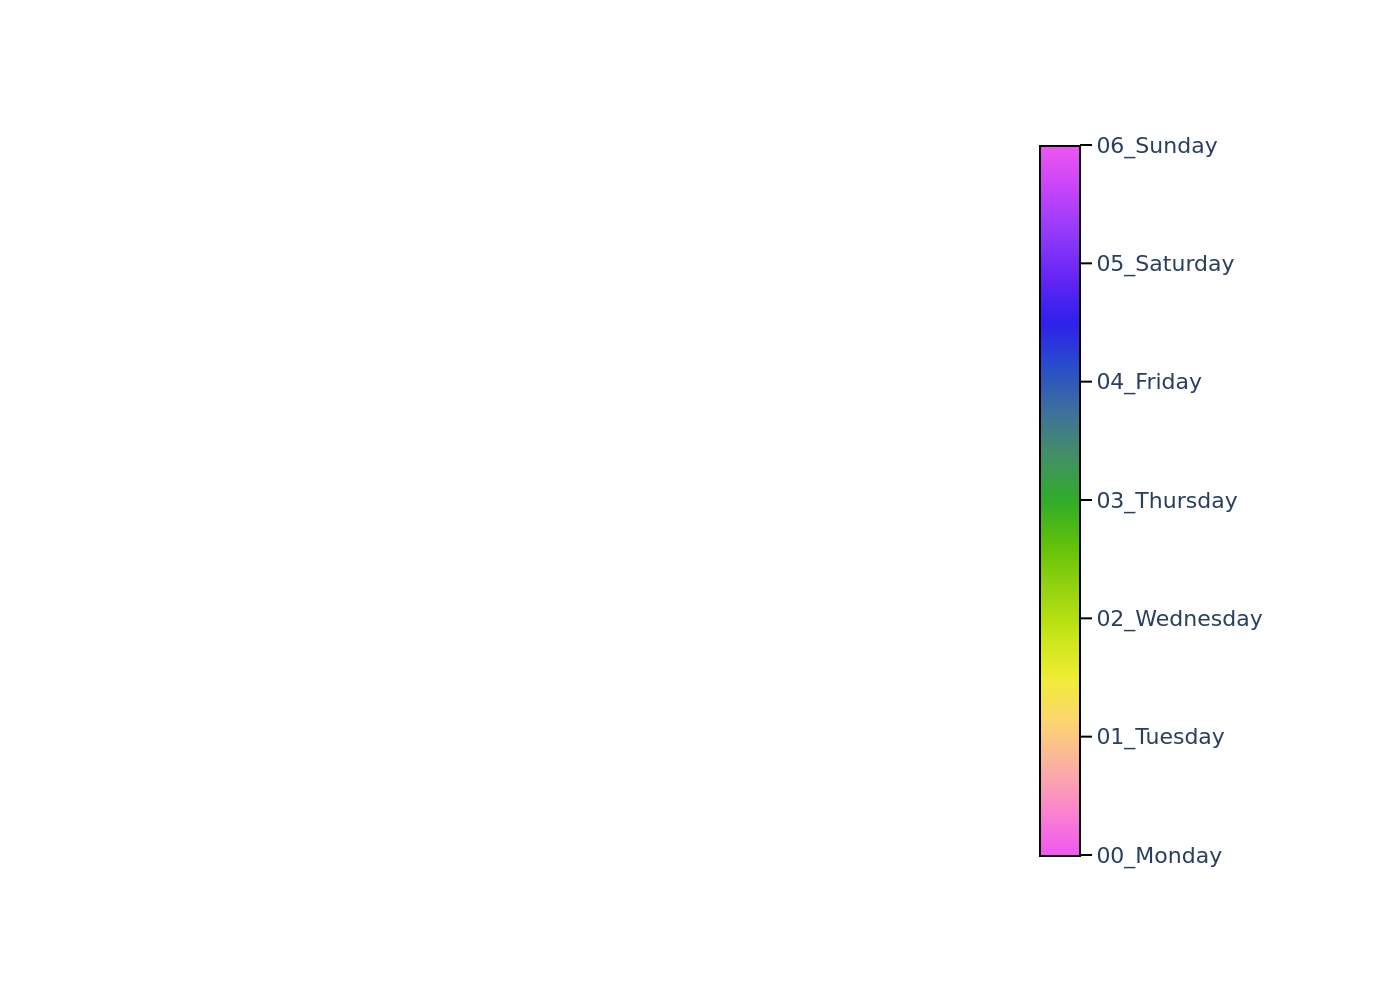
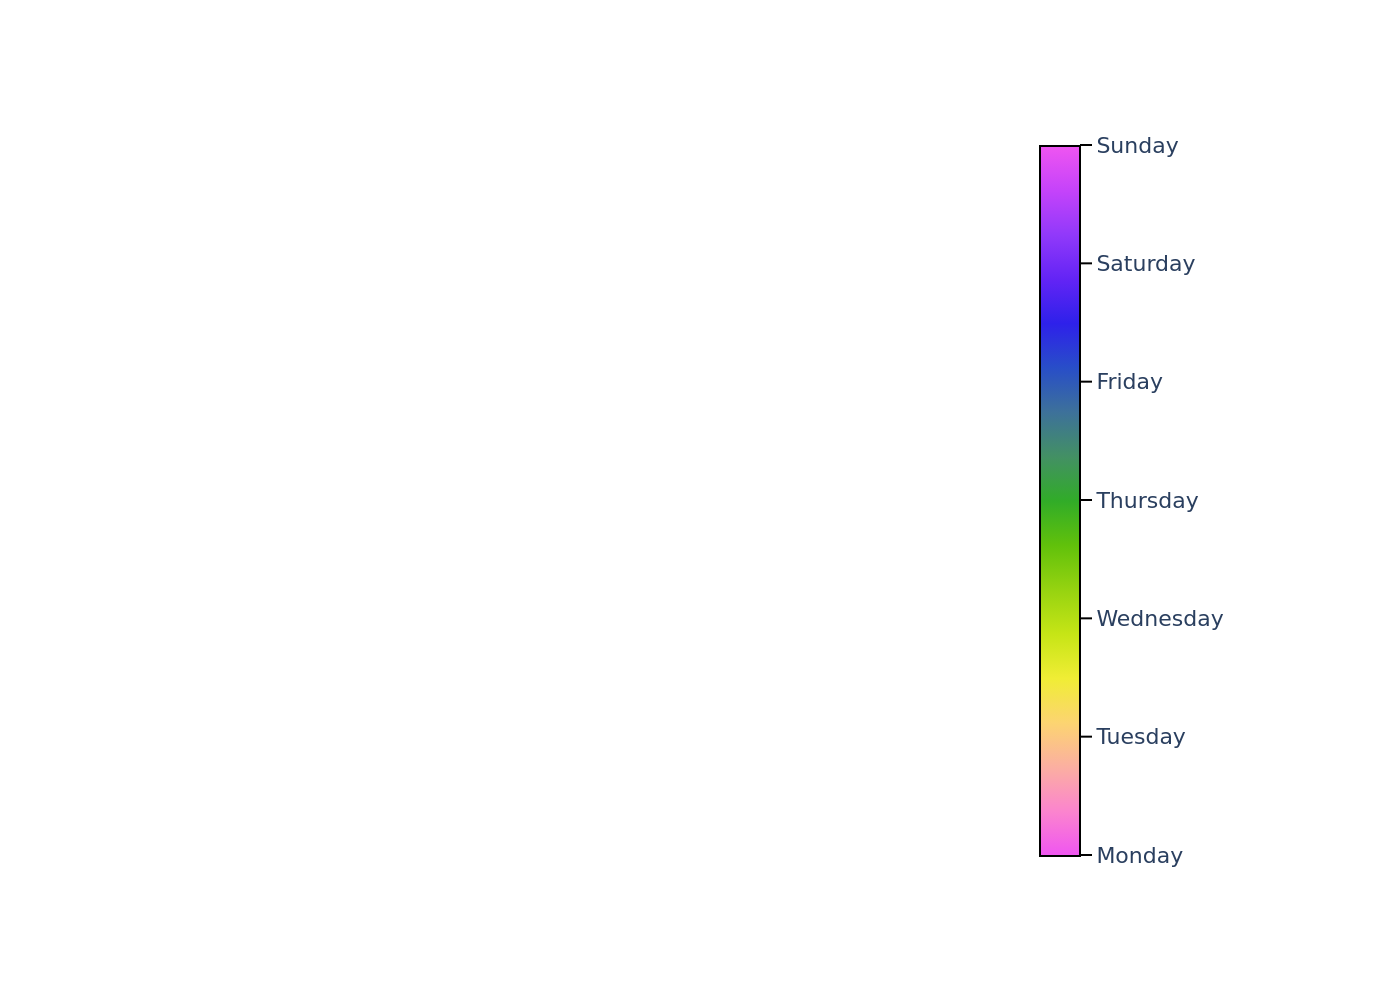
update the legends again .. .

diff --git a/src/latex/camera_ready.py b/src/latex/camera_ready.py
@@ -330,6 +330,11 @@ def build_all_config_groups(color_info: dict[str, dict]) -> list[LegendGroup]:
 
 # ── Legend rendering ───────────────────────────────────────────────────────────
 
+def _display_names(labels: list) -> dict:
+    """Strip leading ``NN_`` sort prefixes for display (e.g. ``'06_insect'`` → ``'insect'``)."""
+    return {lbl: re.sub(r"^\d+_", "", str(lbl)) for lbl in labels}
+
+
 def _render_group_legend(group: LegendGroup, output_path: Path) -> None:
     """Render a legend PNG for *group* using scatter3d's exact Plotly rendering."""
     from analysis.scatter3d import render_legend_png
@@ -343,11 +348,11 @@ def _render_group_legend(group: LegendGroup, output_path: Path) -> None:
             colorscale=group.color_map,
             labels=labels,
             output_path=output_path,
+            label_names=_display_names(labels),
         )
     elif group.color_scale:
-        # Named colorscale → continuous colorbar.
-        # Use real label values (loaded from CSV) so the axis range and auto-ticks
-        # reflect the actual data domain (e.g. −40…140 °F) instead of 0…23.
+        # Named colorscale → colorbar (continuous_color=True) or discrete legend.
+        # Use real label values loaded from CSV so axis range / colours match the data.
         if not group.labels:
             typer.echo(f"  [skip legend] no labels available for group {group.key}", err=True)
             return
@@ -355,7 +360,7 @@ def _render_group_legend(group: LegendGroup, output_path: Path) -> None:
             colorscale=group.color_scale,
             labels=group.labels,
             output_path=output_path,
-            label_names=None,  # triggers auto-tick in render_legend_png
+            label_names=_display_names(group.labels),
             continuous_color=group.continuous_color,
         )
     elif group.labels:
@@ -364,6 +369,7 @@ def _render_group_legend(group: LegendGroup, output_path: Path) -> None:
             colorscale=None,
             labels=group.labels,
             output_path=output_path,
+            label_names=_display_names(group.labels),
         )
     else:
         typer.echo(f"  [skip legend] no color info for group {group.key}", err=True)

diff --git a/src/analysis/scatter3d.py b/src/analysis/scatter3d.py
@@ -748,11 +748,12 @@ def render_legend_png(
     fig = go.Figure()
 
     if _colorscale_is_named or continuous_color:
-        # For numeric labels with no explicit display-name override, pass names=None so
-        # add_colorbar_trace uses its auto-tick path (lo/hi range + _auto_tick_increment)
-        # rather than labelling every index 0,1,2,…
+        # Colorbar path — named colorscales (e.g. "phase", "thermal") or explicit
+        # continuous_color flag both render as a colorbar with ticks.
+        # For numeric labels use auto-tick from the real range (temperatures);
+        # for string-labeled colorbars (e.g. hours "1AM"…"12AM") pass the names dict.
         _all_numeric = all(isinstance(lb, (int, float)) for lb in labels)
-        names_for_cb = None if (label_names is None and _all_numeric) else names
+        names_for_cb = None if _all_numeric else names
         add_colorbar_trace(
             fig, labels,
             colorscale_name=colorscale if isinstance(colorscale, str) else "Viridis",
@@ -772,6 +773,8 @@ def render_legend_png(
             paper_bgcolor="rgba(255,255,255,0)",
         )
     else:
+        # Discrete legend — explicit per-label colour dicts or HSV auto-coloring.
+        # Stacks vertically (Plotly default) to match plot_3d_scatter.
         cmap = build_color_map(labels, colorscale)
         add_discrete_legend(fig, labels, cmap, names)
         fig.update_layout(
@@ -783,7 +786,6 @@ def render_legend_png(
             ),
             showlegend=True,
             legend=dict(
-                orientation="h",
                 x=0.5, xanchor="center",
                 y=0.5, yanchor="middle",
                 bgcolor="rgba(255,255,255,0)",
